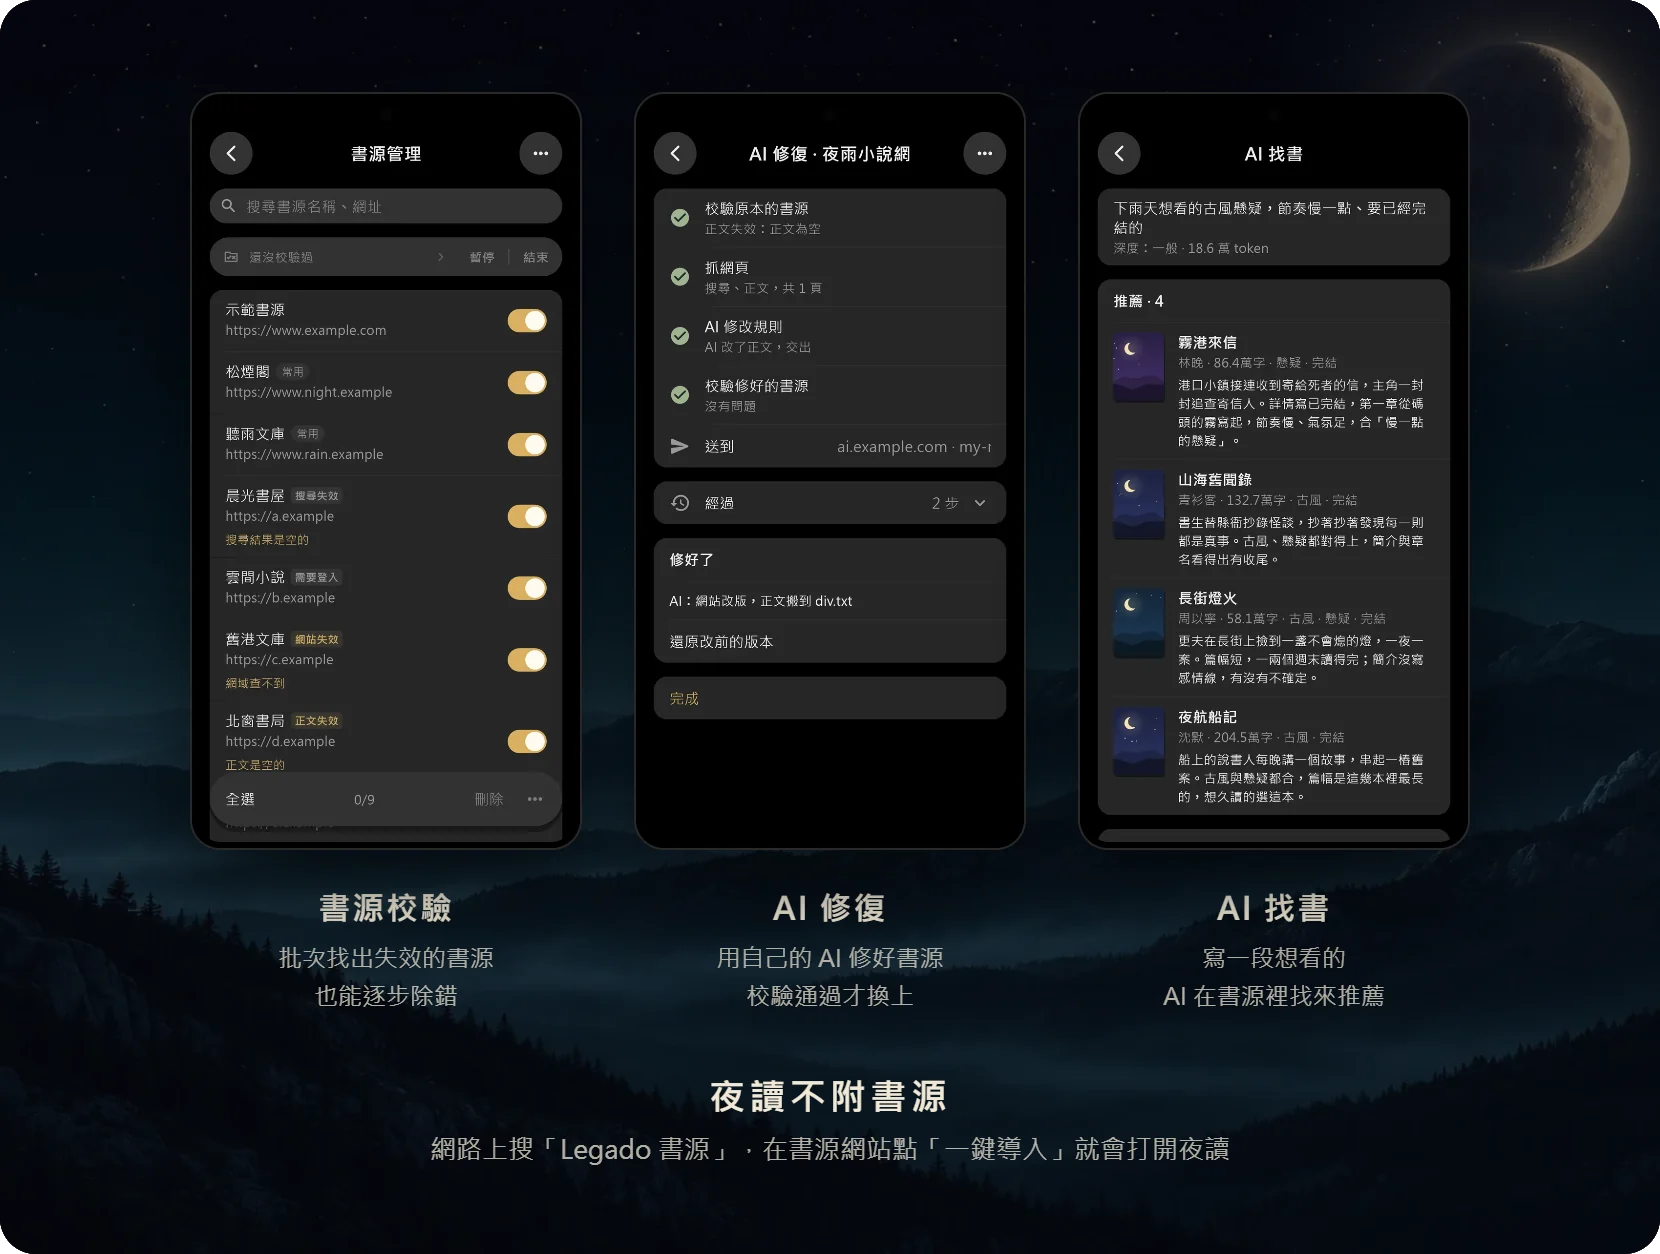
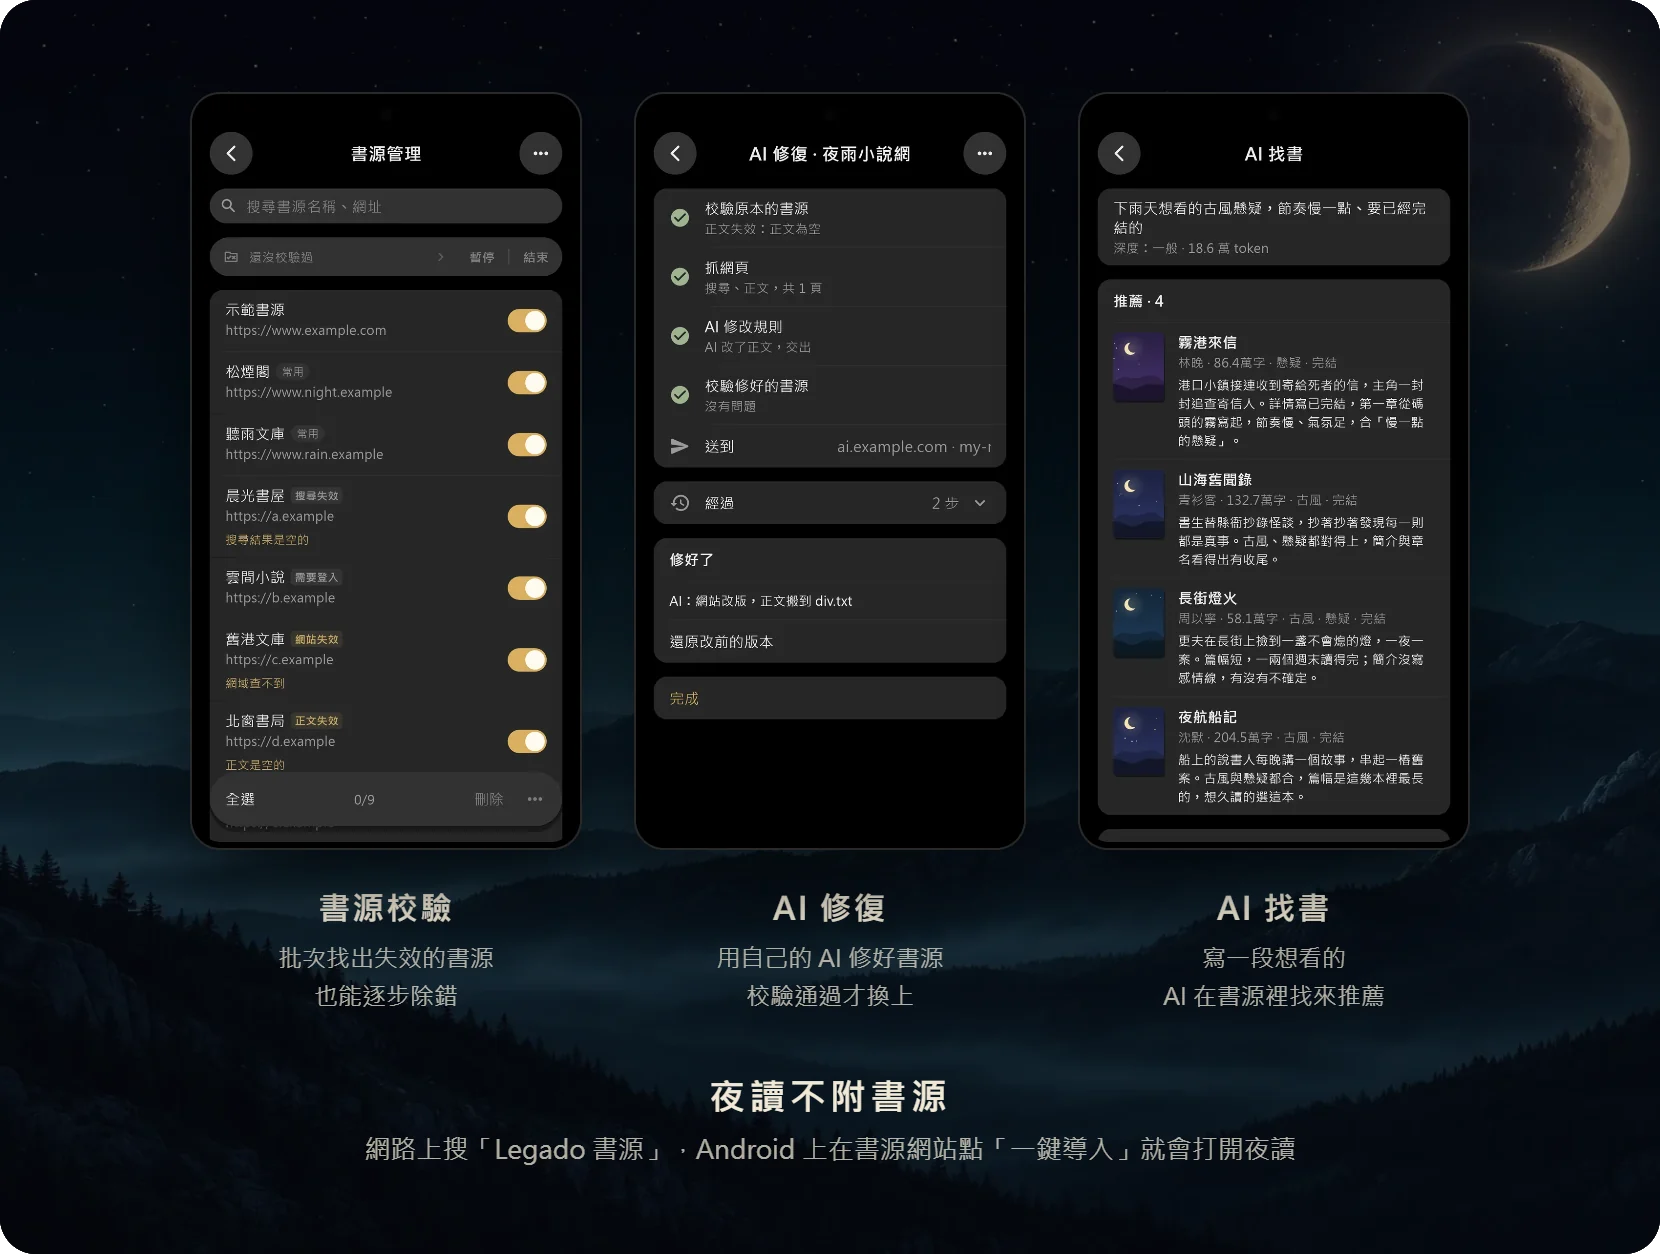
docs(website): 發正式版前網站與 README 對齊現在的 App (#504)
## 改了什麼

發正式版 0.4.1 前，請 Codex 拿網站逐段對照 v0.4.0 之後的 73 項改動與程式。下面五處逐一打開程式核對，確認屬實，照著改：

| 網站段落 | 原本 | 改成 | 依據 |
|---|---|---|---|
| 流暢 | 開 App、開書、換頁都不掉幀 | 開書、換頁都不掉幀 | 開 App 時骨架長出快結束還會漏一拍（#502 量到，已記進待辦）
|
| 六種風格 | 白天、晚上各選一個，晚上可以純黑 | 補上「正文可以另選」 | #503 |
| 多台同步 | 經 Google 雲端硬碟或 WebDAV | 經 WebDAV，Android 也能用 Google 雲端硬碟 |
`sync_space_page.dart` 的 `_googleAvailable` 只在 Android 為真 |
| AI 找書 | 在書源裡搜、試讀 | 在書源裡搜尋、看詳情 | 一般深度只看詳情，深入才讀章節（`AiFindDepth`） |
| 書源匯入 | 在書源網站點「一鍵導入」就會打開夜讀 | 加上「Android 上」 | 只有 `AndroidManifest.xml`
登記了 `legado`／`yuedu` 連結，iOS 的 `Info.plist` 沒有 |

網站、README 的文字和 README
卡片的字（`tool/readme_art/cards.js`）一起改；`reading`、`library`、`sources`
三張卡片已重拍，頭、中、尾幾幀都看過。

## 沒改的

- Codex 另外提的四項（替換規則寫「每本書」、預設藏起狀態列、換源照章名接續、「試讀」的細節之外）都是簡化的說法，沒有說錯，不改。
- 新功能只補「正文可以另選」，其他不加，網站維持一個功能一句話。

## 驗證

- 推送前的 hook：技能檢查與 `flutter analyze` 都通過。
- 這次要發的版本已在模擬器上裝在 0.4.1-beta.149 上面、打開走過一遍：書架、「我的 →
外觀與主題」、切換「對比」再切回都正常，沒有新的崩潰紀錄。

Release-Notes: none

🤖 Generated with [Claude Code](https://claude.com/claude-code)

Changed region(s): [[0.2151, 0.9019, 0.7988, 0.933]]

diff --git a/tool/readme_art/cards.js b/tool/readme_art/cards.js
@@ -3,8 +3,8 @@ window.CARDS = {
     "tablet": {"left": 518, "top": 46, "width": 256}, "phone": {"left": 420, "top": 138, "width": 172}},
 
   "reading": {"type": "row", "t": 0.3, "dim": 0.5, "w": 196, "items": [
-    {"s": "open", "a": "clip:open", "h": "流暢", "p": "開 App、開書、換頁<br>都不掉幀"},
-    {"s": "reader-kraft_light", "a": "wipe:reader-kraft_light,reader-bamboo_light,reader-tea_dark,reader-plain_dark", "h": "六種風格", "p": "白天、晚上各選一個<br>晚上可以純黑"},
+    {"s": "open", "a": "clip:open", "h": "流暢", "p": "開書、換頁<br>都不掉幀"},
+    {"s": "reader-kraft_light", "a": "wipe:reader-kraft_light,reader-bamboo_light,reader-tea_dark,reader-plain_dark", "h": "六種風格", "p": "白天、晚上各選一個<br>正文可另選、晚上可純黑"},
     {"s": "tts", "a": "clip:tts", "h": "朗讀", "p": "標出正在讀的那句<br>可以定時停"}
   ]},
   "tidy": {"type": "row", "t": 0.5, "dim": 0.5, "w": 168, "gap": 22, "items": [
@@ -23,13 +23,13 @@ window.CARDS = {
     {"s": "source-change", "h": "換源", "p": "照章名找回那一章<br>書籤和標註都還在"},
     {"s": "download", "a": "clip:download:hold", "h": "整本下載", "p": "小說、漫畫放上書架<br>就整本下載"},
     {"s": "local-toc", "h": "本地書", "p": "TXT、EPUB<br>匯入自動分章"},
-    {"s": "sync-phone", "a": "devices:sync-phone,sync-tablet", "h": "多台同步", "p": "Google 雲端硬碟<br>或 WebDAV"}
+    {"s": "sync-phone", "a": "devices:sync-phone,sync-tablet", "h": "多台同步", "p": "WebDAV，Android<br>也能用 Google 雲端硬碟"}
   ]},
   "sources": {"type": "row", "t": 1, "dim": 0.55, "w": 196, "moon": [480, -200], "items": [
     {"s": "source-check", "h": "書源校驗", "p": "批次找出失效的書源<br>也能逐步除錯"},
     {"s": "ai-repair", "h": "AI 修復", "p": "用自己的 AI 修好書源<br>校驗通過才換上"},
     {"s": "ai-find", "h": "AI 找書", "p": "寫一段想看的<br>AI 在書源裡找來推薦"}
-  ], "note": ["夜讀不附書源", "網路上搜「Legado 書源」，在書源網站點「一鍵導入」就會打開夜讀"]},
+  ], "note": ["夜讀不附書源", "網路上搜「Legado 書源」，Android 上在書源網站點「一鍵導入」就會打開夜讀"]},
 
   "download": {"type": "download"}
 }

diff --git a/website/index.html b/website/index.html
@@ -80,7 +80,7 @@
         <div class="shots"><div class="phone"><div class="screen"><video class="clip" muted playsinline preload="none" poster="shots/open.webp" data-src="clips/open.mp4" aria-label="從書架打開一本書"></video></div></div></div>
         <div class="text">
           <h3>流暢</h3>
-          <p>開 App、開書、換頁都不掉幀</p>
+          <p>開書、換頁都不掉幀</p>
         </div>
       </article>
 
@@ -101,7 +101,7 @@
         </div></div></div>
         <div class="text">
           <h3>六種風格</h3>
-          <p>白天、晚上各選一個，晚上可以純黑</p>
+          <p>白天、晚上各選一個，正文可以另選，晚上可以純黑</p>
           <div class="styles">
             <div class="seg daynight" role="group" aria-label="白天或晚上"><button data-mode="light">白天</button><button data-mode="dark">晚上</button></div>
             <div class="swatches" data-mode="light" role="group" aria-label="白天的風格">
@@ -229,7 +229,7 @@
         </div>
         <div class="text">
           <h3>多台同步</h3>
-          <p>手機讀到一半，平板接著讀，經 Google 雲端硬碟或 WebDAV</p>
+          <p>手機讀到一半，平板接著讀，經 WebDAV，Android 也能用 Google 雲端硬碟</p>
         </div>
       </article>
 
@@ -253,13 +253,13 @@
         <div class="shots"><div class="phone"><div class="screen"><img src="shots/ai-find.webp" alt="AI 交出的幾本推薦與理由，每本都是這次在書源裡找到的" loading="lazy"></div></div></div>
         <div class="text">
           <h3>AI 找書</h3>
-          <p>寫一段想看的，用自己的 AI 服務在書源裡搜、試讀，推薦幾本並寫理由</p>
+          <p>寫一段想看的，用自己的 AI 服務在書源裡搜尋、看詳情，推薦幾本並寫理由</p>
         </div>
       </article>
 
       <div class="source-note">
         <h3>夜讀不附書源</h3>
-        <p>網路上搜「Legado 書源」，在書源網站點「一鍵導入」就會打開夜讀</p>
+        <p>網路上搜「Legado 書源」，Android 上在書源網站點「一鍵導入」就會打開夜讀</p>
       </div>
   </main>
 

diff --git a/README.md b/README.md
@@ -12,15 +12,15 @@
 
 <br>
 
-<p align="center"><img src="docs/readme/reading.webp" width="100%" alt="流暢：開 App、開書、換頁都不掉幀；六種風格：白天、晚上各選一個，晚上可以純黑；朗讀：標出正在讀的那句，可以定時停"></p>
+<p align="center"><img src="docs/readme/reading.webp" width="100%" alt="流暢：開書、換頁都不掉幀；六種風格：白天、晚上各選一個，正文可以另選，晚上可以純黑；朗讀：標出正在讀的那句，可以定時停"></p>
 
 <p align="center"><img src="docs/readme/tidy.webp" width="100%" alt="隱藏廣告：長按選字按「隱藏」，每本書都不再出現；正文整理：替換規則清掉雜訊，簡體轉成繁體；隱藏狀態列：整個螢幕都是正文；統一封面：書架上的書不用書源的封面"></p>
 
 <p align="center"><img src="docs/readme/kinds.webp" width="100%" alt="漫畫：漫畫書源一路往下捲，CBZ 與圖片資料夾也能匯入；有聲書：一集一集聽，離開播放器也能從書架暫停、繼續；插圖：打開「顯示插圖」，正文與 EPUB 的圖夾在字中間"></p>
 
-<p align="center"><img src="docs/readme/library.webp" width="100%" alt="多書源搜尋：繁簡一起找，同一本書合成一筆；換源：照章名找回讀到的那一章，書籤和標註都還在；整本下載：小說與漫畫放上書架就整本下載，沒網路也能讀；本地書：TXT、EPUB 匯入自動分章；多台同步：經 Google 雲端硬碟或 WebDAV"></p>
+<p align="center"><img src="docs/readme/library.webp" width="100%" alt="多書源搜尋：繁簡一起找，同一本書合成一筆；換源：照章名找回讀到的那一章，書籤和標註都還在；整本下載：小說與漫畫放上書架就整本下載，沒網路也能讀；本地書：TXT、EPUB 匯入自動分章；多台同步：經 WebDAV，Android 也能用 Google 雲端硬碟"></p>
 
-<p align="center"><img src="docs/readme/sources.webp" width="100%" alt="書源校驗：批次找出失效的書源，也能逐步除錯；AI 修復：用自己的 AI 服務修好壞掉的書源，校驗通過才換上；AI 找書：寫一段想看的，用自己的 AI 服務在書源裡搜、試讀，推薦幾本並寫理由。夜讀不附書源，網路上搜「Legado 書源」，在書源網站點「一鍵導入」就會打開夜讀"></p>
+<p align="center"><img src="docs/readme/sources.webp" width="100%" alt="書源校驗：批次找出失效的書源，也能逐步除錯；AI 修復：用自己的 AI 服務修好壞掉的書源，校驗通過才換上；AI 找書：寫一段想看的，用自己的 AI 服務在書源裡搜尋、看詳情，推薦幾本並寫理由。夜讀不附書源，網路上搜「Legado 書源」，Android 上在書源網站點「一鍵導入」就會打開夜讀"></p>
 
 <p align="center"><a href="https://github.com/bennytsai1234/Night-Reader/releases/latest"><img src="docs/readme/download.webp" width="100%" alt="下載夜讀"></a></p>
 
@@ -36,7 +36,7 @@
 <summary><b>書源與本地書</b></summary>
 <br>
 
-夜讀不附書源，剛安裝時書架與搜尋都是空的。在書源網站點「一鍵導入」，或在「我的 → 書源管理」用網址、檔案、剪貼簿匯入；書源格式相容 [Legado](https://github.com/gedoor/legado)，要登入的書源照 Legado 的方式登入。手邊的 TXT、EPUB 與漫畫（CBZ、ZIP、圖片資料夾）不用書源，在書架選「加入本地書籍」。
+夜讀不附書源，剛安裝時書架與搜尋都是空的。在 Android 上從書源網站點「一鍵導入」，或在「我的 → 書源管理」用網址、檔案、剪貼簿匯入；書源格式相容 [Legado](https://github.com/gedoor/legado)，要登入的書源照 Legado 的方式登入。手邊的 TXT、EPUB 與漫畫（CBZ、ZIP、圖片資料夾）不用書源，在書架選「加入本地書籍」。
 
 </details>
 
